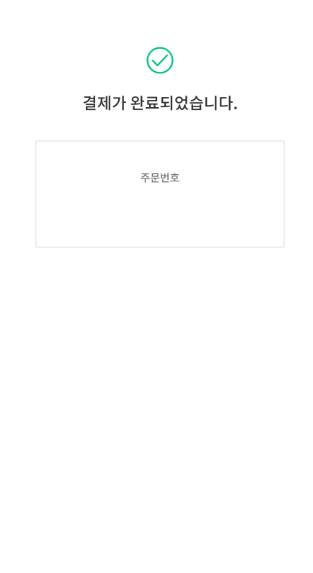
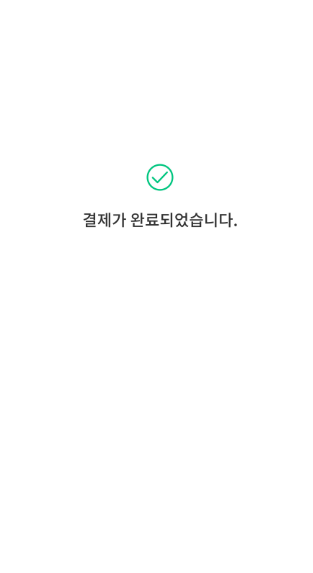
크기변경 및 수정입니다

Changed region(s): [[0.2588, 0.0593, 0.7476, 0.2077], [0.2588, 0.267, 0.7476, 0.4154]]

diff --git a/AcornKiosk/src/payment/SceneController.java b/AcornKiosk/src/payment/SceneController.java
@@ -34,7 +34,7 @@ public class SceneController {
 		scene = new Scene(root);
 		stage.setScene(scene);
 		stage.show();
-		Thread.sleep(500);
+
 	}
 
 	public void switchToScene1(ActionEvent event) throws IOException, InterruptedException {
@@ -43,7 +43,7 @@ public class SceneController {
 		scene = new Scene(root);
 		stage.setScene(scene);
 		stage.show();
-		Thread.sleep(500);
+
 	}
 	
 	public void switchToScene2(ActionEvent event) throws IOException, InterruptedException {
@@ -52,7 +52,7 @@ public class SceneController {
 		scene = new Scene(root);
 		stage.setScene(scene);
 		stage.show();
-		Thread.sleep(500);
+
 	}
 
 	public void switchToScene3(ActionEvent event) throws IOException, InterruptedException {
@@ -86,7 +86,7 @@ public class SceneController {
 		scene = new Scene(root);
 		stage.setScene(scene);
 		stage.show();
-		Thread.sleep(4000);
+
 	
 	}
 	public void switchToScene05(ActionEvent event) throws IOException, InterruptedException {
@@ -108,7 +108,7 @@ public class SceneController {
 		scene = new Scene(root);
 		stage.setScene(scene);
 		stage.show();
-		Thread.sleep(500);
+
 
 	}
 	public void cancel(ActionEvent event)throws IOException, InterruptedException {
@@ -123,7 +123,7 @@ public class SceneController {
 			System.out.println("주문 취소되었습니다");
 			stage.close();
 		}
-		Thread.sleep(500);
+
 
 	}
 
@@ -134,7 +134,7 @@ public class SceneController {
 		scene = new Scene(root);
 		stage.setScene(scene);
 		stage.show();
-		Thread.sleep(500);
+
 
 		
 	}

diff --git a/AcornKiosk/src/payment/Main.java b/AcornKiosk/src/payment/Main.java
@@ -13,7 +13,7 @@ public class Main extends Application {
 	public void start(Stage primaryStage) {
 		try {
 			Parent root = FXMLLoader.load(getClass().getResource("CardCashingUI.fxml"));
-			Scene scene = new Scene(root,500,750);
+			Scene scene = new Scene(root,500,700);
 			
 			primaryStage.setScene(scene);
 			primaryStage.show();
